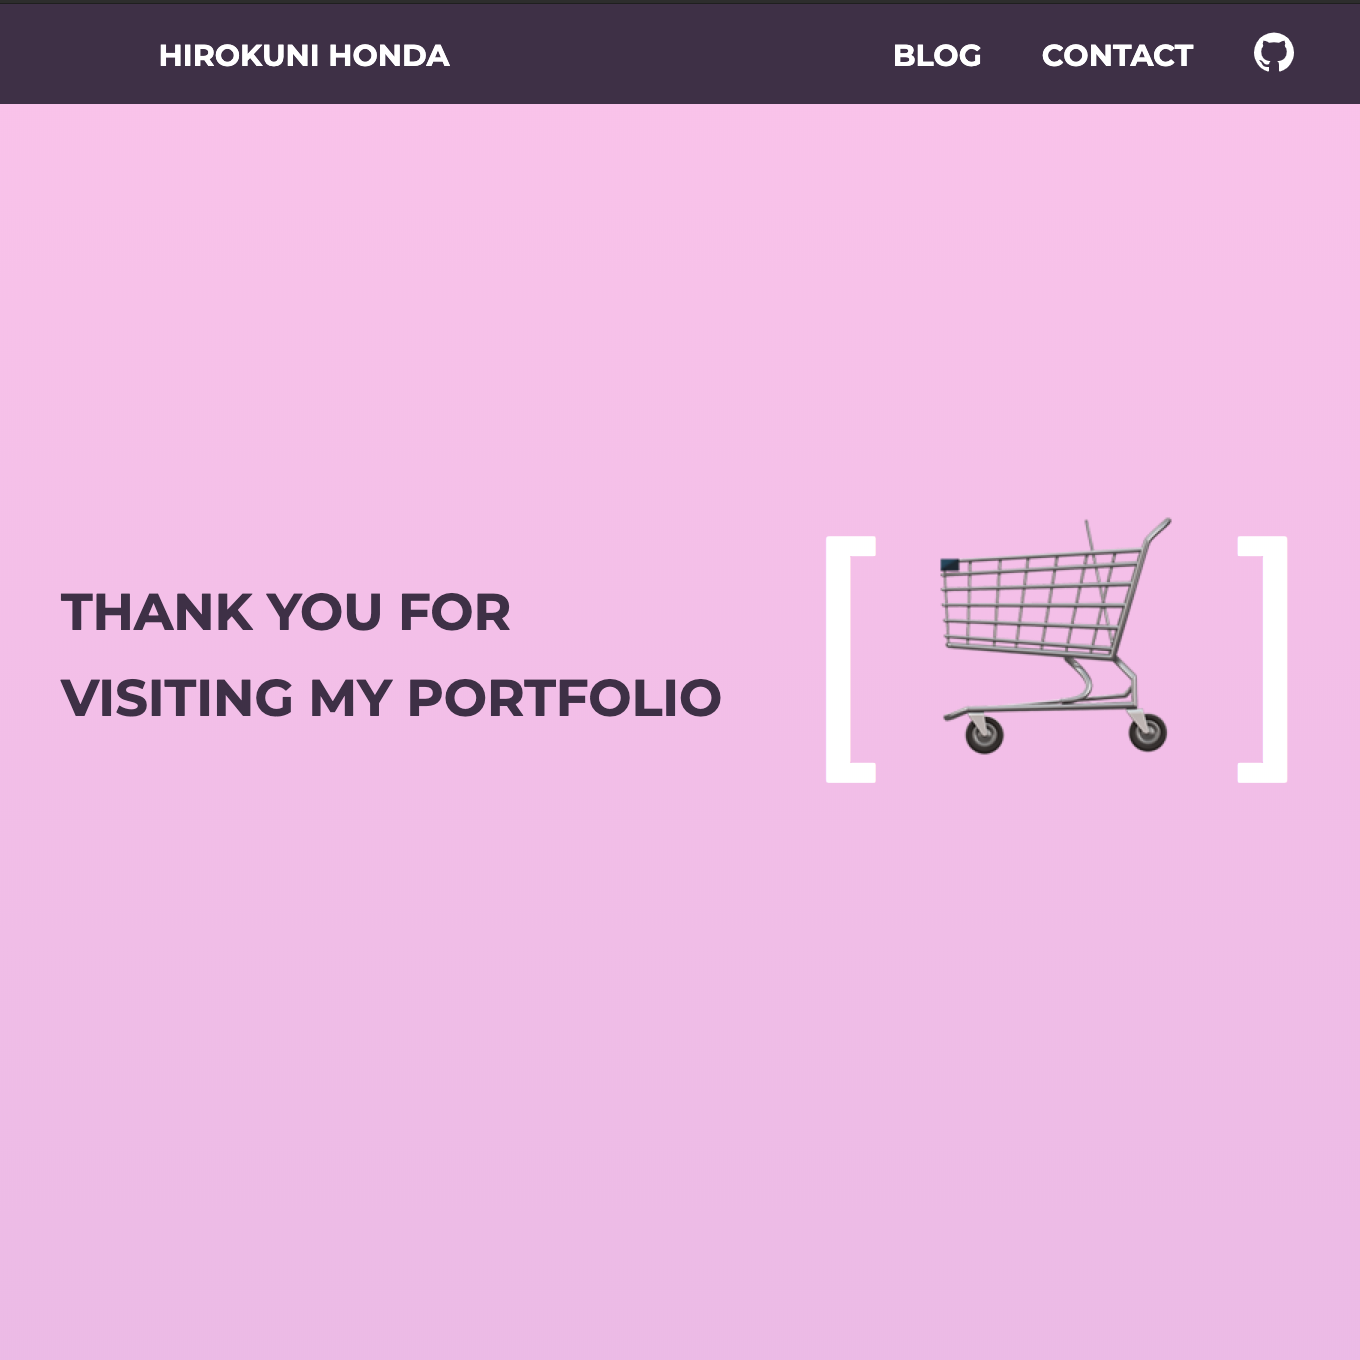
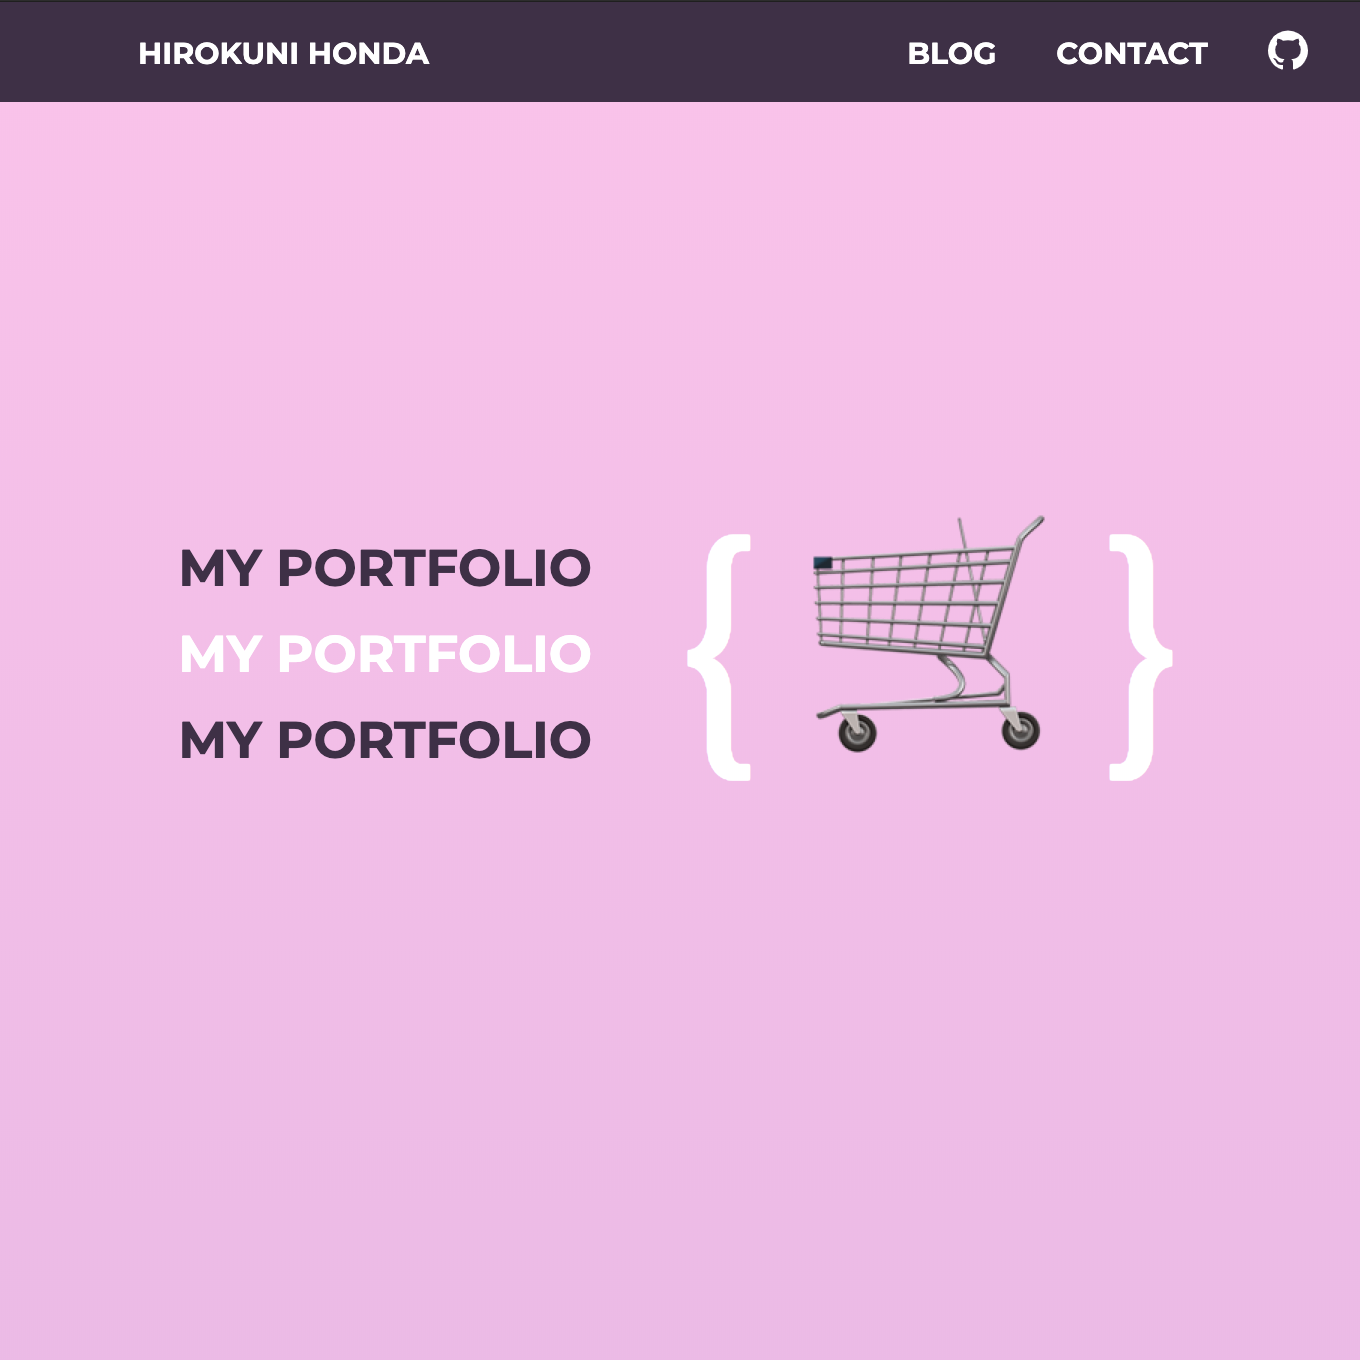
update myworks layout

diff --git a/src/pages/index.js b/src/pages/index.js
@@ -1,10 +1,9 @@
 import React from "react"
-import { Link, StaticQuery, graphql } from 'gatsby'
+import { StaticQuery, graphql } from 'gatsby'
 import Img from 'gatsby-image'
 import Layout from "../components/layout"
 import TitleBox from "../components/titlebox"
 import MyWorks from "../components/myworks"
-import ModalWindow from "../components/modalwindow"
 import styled from 'styled-components'
 
 
@@ -19,17 +18,22 @@ const Billboard= styled.div`
   align-items: center;
   justify-content: center;
   height: 650px;
+  @media screen and (max-width:480px) {
+    height: 350px;
+  }
   p {
     color: #3e3047;
-    font-size: 1.6em;
+    font-size: 1.7em;
     font-family: 'Montserrat', sans-serif;
     top: 50%;
     left: 50%;
     margin:0;
     padding:0;
-
+    @media screen and (max-width:768px) {
+    font-size: 1.2em;
+    }
     @media screen and (max-width:480px) {
-    font-size: 1em;
+    font-size: 0.9em;
     }
   }
 `
@@ -38,6 +42,12 @@ const BillboardEmoji= styled.div`
   font-size: 120px;
   color: white;
   margin: 0 5%;
+  @media screen and (max-width:768px) {
+    font-size: 80px;
+  }
+  @media screen and (max-width:480px) {
+      font-size: 50px;
+  }
 `
 
 const Wrapper= styled.div`
@@ -47,7 +57,7 @@ const Wrapper= styled.div`
   @media screen and (max-width:1024px) {
     flex-direction: column;
     padding: 8px 40px;
-    }
+  }
 `
 
 const ProfileTextBox= styled.div`
@@ -60,16 +70,16 @@ const ProfileTextBox= styled.div`
         color: white;
       }
   }
-
   @media screen and (max-width:768px) {
     padding: 5px 15px;
     }
-    @media screen and (max-width:480px) {
-      p {
-        font-size: 12px;
-      }
+  @media screen and (max-width:480px) {
+    p {
+      font-size: 13px;
     }
+  }
 `
+const shoppingcart = "{ 🛒 }"
 
 export default () => (
   <StaticQuery
@@ -79,8 +89,8 @@ export default () => (
               <div id='root'>
                 <Billboard>
                   {/*<Img fluid={data.background.childImageSharp.fluid} style={{ maxHeight: 0.75*data.background.childImageSharp.fluid.presentationHeight}}/>*/}
-                  <div><p>THANK YOU FOR<br></br>VISITING MY PORTFOLIO</p></div>
-                  <BillboardEmoji>[ 🛒 ]</BillboardEmoji>
+                  <div><p>MY PORTFOLIO</p><p style={{color: 'white'}}>MY PORTFOLIO</p><p>MY PORTFOLIO</p></div>
+                  <BillboardEmoji>{shoppingcart}</BillboardEmoji>
                 </Billboard>
                 <TitleBox title="WHO&nbsp;&nbsp;I&nbsp;&nbsp;AM"/>
                 <Wrapper>
@@ -91,9 +101,9 @@ export default () => (
                     <h3 style={{color: '#3e3047'}}>Hirokuni Honda</h3>
                     <h4 style={{color: '#3e3047'}}>What I did</h4>
                     <p>慶應義塾大学経済学部卒業後、物流企業にて貿易に関わる営業・現場運営を5年間担当。
-                      好きな楽曲から自分だけの英単語帳を作ってみたいと思い、2019年からRuby on RailsやJavaScriptの学習を開始。
+                      好きな音楽の歌詞から自分だけの英単語帳を作ってみたくなり、2019年からRuby on RailsやJavaScriptの学習を開始。
                       開発を進める過程で、使いやすさや視覚的な部分へのこだわりが強いと自覚し、React.js等のフロントエンドに注力。
-                      自分のアイデアやこだわりをダイレクトに表現できて、世界中の人々(ユーザー)と共有することができるエンジニアという職業に惹かれるようになり転職を決意した。
+                      アイデアやこだわりをダイレクトに表現できて、世界中の人々(ユーザー)と共有することができるエンジニアという職業に惹かれるようになり転職を決意。
                     </p>
                     <h4 style={{color: '#3e3047'}}>What I can do now</h4>
                     <p>
@@ -103,7 +113,7 @@ export default () => (
                       - React.js<br></br>
                       - English (<a href="http://cadillacs-in-our-dreams.surge.sh/"><strong>映画レビューblog</strong></a>をたまに書いてます。)<br></br>
                     </p>
-                    <h4 style={{color: '#3e3047'}}>What I will do</h4>
+                    <h4 style={{color: '#3e3047'}}>What now I try</h4>
                     <p>
                       - Redux<br></br>
                       - Typescript<br></br>
@@ -112,7 +122,6 @@ export default () => (
                     <p>
                       - レコード🎧収集<br></br>
                       - アメリカ企業🇺🇸のAnnual Report読解<br></br>
-                      - Podcast📻運営<br></br>
                     </p>
                   </ProfileTextBox>
                 </Wrapper>

diff --git a/src/components/myworks.js b/src/components/myworks.js
@@ -1,5 +1,4 @@
 import React from "react"
-import ModalWindow from "../components/modalwindow"
 import styled from 'styled-components'
 import { Link, StaticQuery, graphql } from 'gatsby'
 import Img from 'gatsby-image'
@@ -11,6 +10,10 @@ justify-content: center;
 height: 1200px;
 align-items: center;
 font-family: 'Montserrat', sans-serif;
+@media screen and (max-width:480px) {
+    height: 800px;
+    font-size: 30px;
+  }
 `
 const MyWorkBox = styled.div`
 width: 100%;
@@ -19,7 +22,6 @@ flex-flow: row nowrap;
 justify-content: center;
 align-items: center;
 `
-
 const MyWork = styled.div`
 display: flex;
 align-items: center;
@@ -35,15 +37,19 @@ color: white;
   @media screen and (max-width:768px) {
     height: 200px;
     width: 200px;
-    font-size: 5px;
+    font-size: 40px;
   }
   @media screen and (max-width:480px) {
     height: 150px;
     width: 150px;
+    font-size: 30px;
   }
 `
 
 const MyWorkDetail = styled.div`
+display: flex;
+flex-flow: column nowrap;
+justify-content: space-around;
 height: 300px;
 width: 300px;
 margin: 3% 3%;
@@ -74,13 +80,13 @@ font-family: 'Arvo', sans-serif;
     width: 150px;
     font-size: 9px;
       h2 {
+        margin: 0;
         font-size: 13px;
       }
       p {
         margin: 0 0 5px 0 ;
       }
   }
-
 `
 const Button = styled.button`
   display: inline-block;
@@ -96,13 +102,10 @@ const Button = styled.button`
     }
   @media screen and (max-width:480px) {
   font-size: 9px;
-  width: 7rem;
+  padding: 0.2rem 0;
+  width: 6rem;
   }
 `
-const StyledImg = styled(Img)`
-  border-radius: 13px !important;
-`
-
 
 function MyWorks(props) {
   return (
@@ -117,14 +120,14 @@ function MyWorks(props) {
         </MyWork>
         <MyWorkDetail>
           <h2>Vocamy🥑</h2>
-          <p>enable you to aquire new vocablary refering to your favorite lyrics.</p>
+          <p>enables you to aquire new vocablary refering to your favorite lyrics.</p>
           <Link to="/vocamy"><Button>>>> Go into details</Button></Link>
         </MyWorkDetail>
       </MyWorkBox>
       <MyWorkBox>
         <MyWorkDetail>
           <h2>This Portfolio☕</h2>
-          <p> simply describe who I am and introduce my works with Gatsby.js</p>
+          <p> simply describes who I am and introduce my works with Gatsby.js</p>
           <Link to="/myportfolio"><Button>>>> Go into details</Button></Link>
         </MyWorkDetail>
         <MyWork>
@@ -148,7 +151,6 @@ function MyWorks(props) {
     />
   )
 }
-
 
 const query = graphql`
     query {

diff --git a/src/pages/vocamy.js b/src/pages/vocamy.js
@@ -1,19 +1,25 @@
-
 import React from "react"
 import styled from 'styled-components'
 import Layout from "../components/layout"
 import { Link, StaticQuery, graphql } from 'gatsby'
 import Img from 'gatsby-image'
 
-
 const Container = styled.div`
+  background-image: linear-gradient(-20deg, #e9defa 0%, #fbfcdb 100%);
   display: flex;
   flex-flow: column nowrap;
   align-items: center;
-  background-color: #fff1ff;
 `
 const Block = styled.div`
-  margin: 3em 3em;
+  margin: 3em 15em;
+  @media screen and (max-width:960px) {
+    margin: 3em 6em;
+    font-size: 16px;
+  }
+  @media screen and (max-width:480px) {
+    margin: 3em 3em;
+    font-size: 12px;
+  }
 `
 const Styledh4 = styled.h4`
   margin: 2em 0 0.5em 0;
@@ -32,7 +38,7 @@ const Button = styled.button`
     color: white;
     }
   @media screen and (max-width:480px) {
-  font-size: 9px;
+  font-size: 12px;
   width: 7rem;
   }
   a {

diff --git a/src/pages/chrome_extension.js b/src/pages/chrome_extension.js
@@ -5,15 +5,23 @@ import { Link, StaticQuery, graphql } from 'gatsby'
 import Img from 'gatsby-image'
 
 
-
 const Container = styled.div`
+  background-image: linear-gradient(-20deg, #e9defa 0%, #fbfcdb 100%);
   display: flex;
   flex-flow: column nowrap;
   align-items: center;
   background-color: #fff1ff;
 `
 const Block = styled.div`
-  margin: 3em 3em;
+  margin: 3em 15em;
+  @media screen and (max-width:960px) {
+    margin: 3em 6em;
+    font-size: 16px;
+  }
+  @media screen and (max-width:480px) {
+    margin: 3em 3em;
+    font-size: 12px;
+  }
 `
 const Styledh4 = styled.h4`
   margin: 2em 0 0.5em 0;

diff --git a/src/components/footer.js b/src/components/footer.js
@@ -44,14 +44,14 @@ const Contact = styled.div`
 
 export default () => (
   <Wrapper>
-    <div>
-      <p>© Hirokuni Honda 2020, Built with Gatsby</p>
-    </div>
     <Contact id="contact">
       <h4>Contact</h4>
       <li>📩<a href="mailto:hirokuni0719@gmail.com">hirokuni0719@gmail.com</a></li>
       <li><a href="https://github.com/hiropalla1692/">Github</a></li>
       <li><a href="https://www.wantedly.com/users/82225561">Wantedly</a></li>
     </Contact>
+    <div>
+      <p>© Hirokuni Honda 2020, Built with Gatsby</p>
+    </div>
   </Wrapper>
 )

diff --git a/src/pages/myportfolio.js b/src/pages/myportfolio.js
@@ -7,13 +7,22 @@ import Img from 'gatsby-image'
 
 
 const Container = styled.div`
+  background-image: linear-gradient(-20deg, #e9defa 0%, #fbfcdb 100%);
   display: flex;
   flex-flow: column nowrap;
   align-items: center;
   background-color: #fff1ff;
 `
 const Block = styled.div`
-  margin: 3em 3em;
+  margin: 3em 15em;
+  @media screen and (max-width:960px) {
+    margin: 3em 6em;
+    font-size: 16px;
+  }
+  @media screen and (max-width:480px) {
+    margin: 3em 3em;
+    font-size: 12px;
+  }
 `
 const Styledh4 = styled.h4`
   margin: 2em 0 0.5em 0;

diff --git a/src/components/titlebox.js b/src/components/titlebox.js
@@ -28,28 +28,18 @@ height: 480px;
 font-family: 'Montserrat', sans-serif;
 `
 
-const StyledButton = styled.button`
-height: 64px;
-width: 240px;
-font-size: 13px;
-background-color: #3e3047;
-color: white;
-border-color: #3e3047;
-`
-
 class TitleBox extends React.Component {
   constructor(props) {
     super(props);
   }
-
   render() {
     return (
       <Wrapper>
         <Box className="box" >{this.props.title}</Box>
       </Wrapper>
     )
-  }
-}
+  };
+};
 
 export default TitleBox;
 

diff --git a/src/components/header.js b/src/components/header.js
@@ -1,7 +1,5 @@
 import React from "react"
 import styled from 'styled-components'
-import { Link } from "gatsby"
-import Twittericon from '../components/twittericon'
 import Githubicon from '../components/githubicon'
 
 const Wrapper = styled.div`
@@ -40,7 +38,7 @@ const Menu = styled.ul`
   height: 88vh;
   width: 40%;
   top: 6vh;
-  background-color: black;
+  background-color: #3e3047;
   transform: translateX(100%);
   transition: transform 0.5s ease-in;
 

diff --git a/src/utils/typography.js b/src/utils/typography.js
@@ -1,6 +1,5 @@
 import Typography from "typography"
 import grandViewTheme from "typography-theme-grand-view"
-import stAnnesTheme from 'typography-theme-st-annes'
 
 const typography = new Typography(grandViewTheme)
 export const { scale, rhythm, options } = typography

diff --git a/src/templates/blog-post.js b/src/templates/blog-post.js
@@ -2,7 +2,6 @@ import React from "react"
 import { Link } from "gatsby"
 import { graphql } from "gatsby"
 import styled from 'styled-components'
-import Layout from "../components/layout"
 
 const ArticleDisplay = styled.div`
   margin: 4em 12em;
